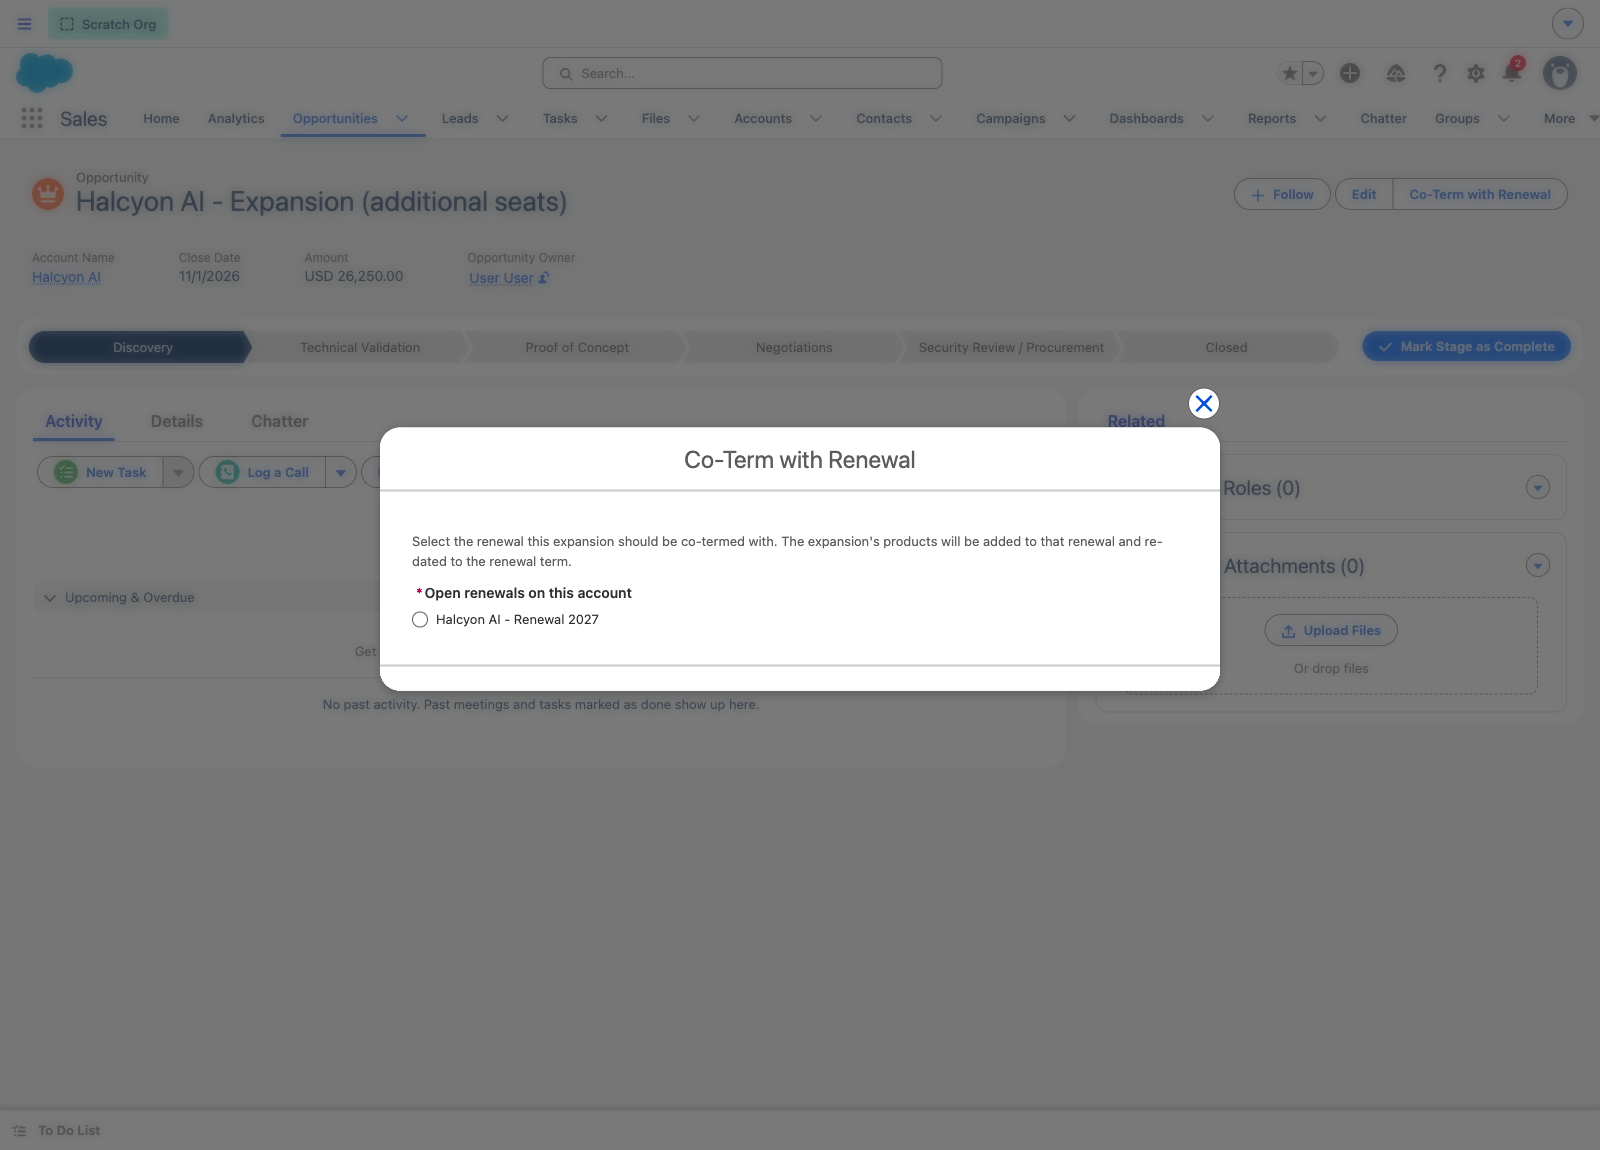
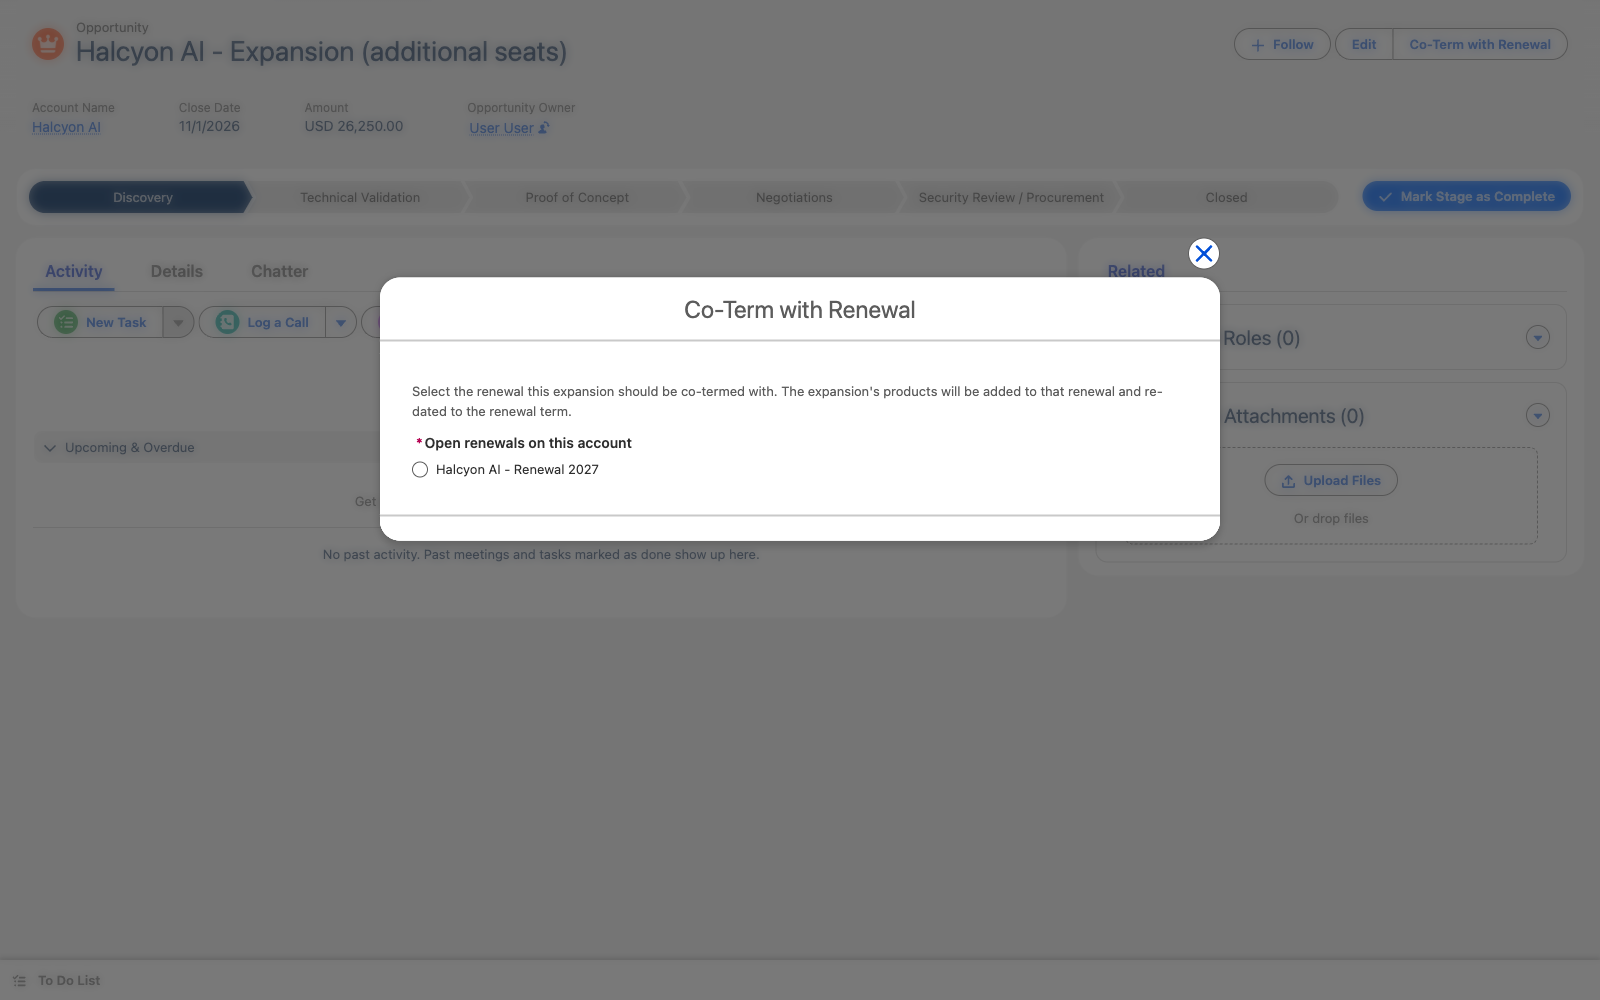
More screenshots per section, with an explicit click path on each task
17 screenshots, scoped to the component rather than the whole page and trimmed
of Salesforce chrome. Adds the expanded Sales Path showing key fields and
guidance, the POC, approval, contract, outcome and disqualification sections,
the lead record, and the cold accounts list.

Every task now opens with a click-path breadcrumb so it can be followed along.

diff --git a/index.html b/index.html
@@ -102,6 +102,11 @@ a.btn:hover,a.btn:focus-visible{background:var(--ink2);outline:none}
 a.btn.ghost{background:transparent;color:var(--accd);border:1px solid var(--line2)}
 a.btn.ghost:hover{background:var(--paper2)}
 
+.nav{display:flex;flex-wrap:wrap;gap:7px;align-items:center;margin:0 0 18px;padding:11px 14px;
+  background:var(--paper2);border-radius:6px;font-size:14px;font-family:var(--mono)}
+.nav .c{color:var(--faint)}
+.nav b{font-weight:500;color:var(--tx);font-family:var(--body)}
+.nav .lbl{font-family:var(--body);font-size:11.5px;letter-spacing:.09em;text-transform:uppercase;color:var(--faint);font-weight:600;margin-right:3px}
 .tw{overflow-x:auto;margin:18px 0}
 table{width:100%;border-collapse:collapse;font-size:14.5px;min-width:520px}
 th{text-align:left;font-size:12px;letter-spacing:.08em;text-transform:uppercase;color:var(--faint);font-weight:600;padding:0 12px 9px 0;border-bottom:1px solid var(--line2)}
@@ -159,13 +164,13 @@ code{font-family:var(--mono);font-size:.87em;background:var(--paper2);border-rad
 <section class="task" id="new">
   <h2>I've got a new lead</h2>
   <p class="who">Account Executive</p>
-  <p>Leads are where everything starts. A lead is someone you think might be worth a conversation &mdash; it is not pipeline yet, and it should not be.</p>
+  <p>Leads are where everything starts. A lead is someone you think might be worth a conversation &mdash; it is not pipeline yet, and it should not be.</p><div class="nav"><span class="lbl">Click path</span><b>App Launcher</b><span class="c">&rsaquo;</span><b>Leads</b><span class="c">&rsaquo;</span><b>Working Leads</b><span class="c">&rsaquo;</span><b>open a lead</b></div>
   <ol class="steps">
     <li>Open <b>Leads</b> and pick the <b>Working Leads</b> list, or create a new one.</li>
     <li>Fill in <b>How Did You Hear About Us</b>. It is one click and it follows the deal all the way to close.</li>
     <li>Move the status to <b>Warming</b> when you start working it, then <b>Connected</b> once they reply.</li>
     <li>When a meeting goes in the diary, set the status to <b>Meeting Set</b>.</li>
-  </ol>
+  </ol><figure><img src="shots/lead_record.png" alt="A lead at Meeting Held. Status runs along the top; the meeting dates underneath were stamped for you." loading="lazy"><figcaption>A lead at <b>Meeting Held</b>. Status runs along the top; the meeting dates underneath were stamped for you.</figcaption></figure>
   <div class="auto">
     <h3>Salesforce does this for you</h3>
     <ul>
@@ -185,12 +190,12 @@ code{font-family:var(--mono);font-size:.87em;background:var(--paper2);border-rad
 <section class="task" id="met">
   <h2>I've had the meeting</h2>
   <p class="who">Account Executive</p>
-  <p>This is the decision point. Either it is worth pursuing, or it is not &mdash; and both answers are useful.</p>
+  <p>This is the decision point. Either it is worth pursuing, or it is not &mdash; and both answers are useful.</p><div class="nav"><span class="lbl">Click path</span><b>open the lead</b><span class="c">&rsaquo;</span><b>Convert &mdash; or set status to Disqualified</b></div>
   <ol class="steps">
     <li>Set the lead status to <b>Meeting Held</b>.</li>
     <li>If it is worth pursuing, click <b>Convert</b>. That creates the account, the contact and the opportunity in one go.</li>
     <li>If it is not, set the status to <b>Disqualified</b> and pick a <b>Disqualification Reason</b>.</li>
-  </ol>
+  </ol><figure><img src="shots/disqual_section.png" alt="The Disqualification section. Reason plus a note &mdash; that is the whole job, and it stays on the lead forever." loading="lazy"><figcaption>The Disqualification section. Reason plus a note &mdash; that is the whole job, and it stays on the lead forever.</figcaption></figure>
   <div class="heads">
     <h3>Don't skip the reason</h3>
     <p>The lead is never deleted. Next time that company comes round &mdash; and they will &mdash; whoever picks it up can see you already spoke to them and why it didn't go anywhere. That is worth ten seconds now.</p>
@@ -207,11 +212,11 @@ code{font-family:var(--mono);font-size:.87em;background:var(--paper2);border-rad
 <section class="task" id="move">
   <h2>I'm moving a deal forward</h2>
   <p class="who">Account Executive &amp; Sales Engineer</p>
-  <p>The bar across the top of every opportunity is your map. Click a stage and it tells you what that stage needs.</p>
+  <p>The bar across the top of every opportunity is your map. Click a stage and it tells you what that stage needs.</p><div class="nav"><span class="lbl">Click path</span><b>Opportunities</b><span class="c">&rsaquo;</span><b>open the deal</b><span class="c">&rsaquo;</span><b>click a stage on the path</b><span class="c">&rsaquo;</span><b>expand the chevron</b></div>
   <figure>
     <img src="shots/path.png" alt="The sales path across the top of an opportunity, showing all seven stages" loading="lazy">
     <figcaption>Click any stage to see its key fields and what's required to leave it. <b>Mark Stage as Complete</b> moves the deal on.</figcaption>
-  </figure>
+  </figure><figure><img src="shots/path_guidance.png" alt="Hit the chevron on the left and the path opens up: the key fields for that stage on the left, editable in place, and what you need to move on on the right. You rarely need to scroll further than this." loading="lazy"><figcaption>Hit the chevron on the left and the path opens up: the <b>key fields</b> for that stage on the left, editable in place, and <b>what you need to move on</b> on the right. You rarely need to scroll further than this.</figcaption></figure>
   <p>Here is what each stage needs before you can leave it. Nothing else is enforced &mdash; fill in the rest as you learn it.</p>
   <div class="tw"><table>
     <tr><th>Stage</th><th>Before you can move on</th></tr>
@@ -225,7 +230,7 @@ code{font-family:var(--mono);font-size:.87em;background:var(--paper2);border-rad
   <figure>
     <img src="shots/bant.png" alt="The BANT section showing budget, authority, need and timeline with a 75 percent score" loading="lazy">
     <figcaption>BANT only counts answers marked <b>Confirmed</b>. <code>Estimated</code> and <code>Partial</code> score zero &mdash; three out of four gets you to 75%.</figcaption>
-  </figure>
+  </figure><figure><img src="shots/techqual.png" alt="The Technical Qualification section, filled in by your SE. You do not need to complete this yourself &mdash; but the deal cannot reach POC until they have." loading="lazy"><figcaption>The Technical Qualification section, filled in by your SE. You do not need to complete this yourself &mdash; but the deal cannot reach POC until they have.</figcaption></figure>
   <div class="auto">
     <h3>Salesforce does this for you</h3>
     <ul>
@@ -245,7 +250,7 @@ code{font-family:var(--mono);font-size:.87em;background:var(--paper2);border-rad
 <section class="task" id="blocked">
   <h2>Salesforce won't let me move my deal</h2>
   <p class="who">Everyone &mdash; read this one</p>
-  <p>This is deliberate, and the message always tells you exactly what is missing. Here is what it looks like:</p>
+  <p>This is deliberate, and the message always tells you exactly what is missing. Here is what it looks like:</p><div class="nav"><span class="lbl">Click path</span><b>change the Stage</b><span class="c">&rsaquo;</span><b>Save</b><span class="c">&rsaquo;</span><b>read the message</b></div>
   <figure>
     <img src="shots/gate_error.png" alt="Salesforce showing an error when a deal is moved to Proof of Concept without meeting the requirements" loading="lazy">
     <figcaption>The error names every missing item at once, so you can fix them in one pass rather than one at a time.</figcaption>
@@ -272,14 +277,14 @@ code{font-family:var(--mono);font-size:.87em;background:var(--paper2);border-rad
 <section class="task" id="poc">
   <h2>I'm running a POC</h2>
   <p class="who">Account Executive &amp; Sales Engineer</p>
-  <p>Move the deal to <b>Proof of Concept</b> on the day the customer actually gets access &mdash; that starts the clock.</p>
+  <p>Move the deal to <b>Proof of Concept</b> on the day the customer actually gets access &mdash; that starts the clock.</p><div class="nav"><span class="lbl">Click path</span><b>open the deal</b><span class="c">&rsaquo;</span><b>Details</b><span class="c">&rsaquo;</span><b>Proof of Concept section</b></div>
   <ol class="steps">
     <li>Paste the link to your <b>scoping doc</b>. The full checklist stays in the doc, not in Salesforce.</li>
     <li>Write a short <b>summary</b> so nobody has to open the doc to understand the deal.</li>
     <li>Write the <b>success criteria</b> explicitly &mdash; what has to be true for this to count as a win.</li>
     <li>Set a <b>target end date</b>.</li>
     <li>When it finishes, set <b>Tech Win</b> to Yes or No, pick a reason, and add a note.</li>
-  </ol>
+  </ol><figure><img src="shots/poc_section.png" alt="The POC section on a live deal. POC Days Elapsed counts itself from the day you moved the stage &mdash; there is no start date to remember." loading="lazy"><figcaption>The POC section on a live deal. <b>POC Days Elapsed</b> counts itself from the day you moved the stage &mdash; there is no start date to remember.</figcaption></figure>
   <figure>
     <img src="shots/techqual.png" alt="The technical qualification section showing autonomy level, coding agents, IDEs and current tooling" loading="lazy">
     <figcaption>The technical picture your SE builds &mdash; what they run today, and how autonomous their development is.</figcaption>
@@ -300,13 +305,13 @@ code{font-family:var(--mono);font-size:.87em;background:var(--paper2);border-rad
 <section class="task" id="approval">
   <h2>I need pricing approved</h2>
   <p class="who">Account Executive</p>
-  <p>Once you've agreed a number, it goes to the CEO before the deal can move into Security Review.</p>
+  <p>Once you've agreed a number, it goes to the CEO before the deal can move into Security Review.</p><div class="nav"><span class="lbl">Click path</span><b>open the deal</b><span class="c">&rsaquo;</span><b>Submit for Approval</b><span class="c">&rsaquo;</span><b>wait for the decision</b><span class="c">&rsaquo;</span><b>move the stage yourself</b></div>
   <ol class="steps">
     <li>Make sure the <b>Amount</b> on the opportunity is the number you actually agreed.</li>
     <li>Click <b>Submit for Approval</b>.</li>
     <li>You'll see the status change to <b>Pending Approval</b>, and the approver gets notified.</li>
     <li>Once approved, <b>you</b> move the deal to Security Review. Approval unlocks the move; it doesn't make it.</li>
-  </ol>
+  </ol><figure><img src="shots/approval_section.png" alt="After approval: the status, the number approved, who approved it and when &mdash; all on the record, nothing to go looking for." loading="lazy"><figcaption>After approval: the status, the number approved, who approved it and when &mdash; all on the record, nothing to go looking for.</figcaption></figure>
   <div class="auto">
     <h3>Salesforce does this for you</h3>
     <ul>
@@ -326,11 +331,11 @@ code{font-family:var(--mono);font-size:.87em;background:var(--paper2);border-rad
 <section class="task" id="won">
   <h2>I've won the deal</h2>
   <p class="who">Account Executive</p>
-  <ol class="steps">
+  <div class="nav"><span class="lbl">Click path</span><b>open the deal</b><span class="c">&rsaquo;</span><b>Details</b><span class="c">&rsaquo;</span><b>Contract Details</b><span class="c">&rsaquo;</span><b>set Stage to Closed Won</b></div><ol class="steps">
     <li>Fill in the <b>Contract Details</b> &mdash; start date, end date, term, payment terms, billing frequency.</li>
     <li>Set the stage to <b>Closed Won</b>.</li>
     <li>Add a <b>Win Reason</b> and a note on why you won, while it's fresh.</li>
-  </ol>
+  </ol><figure><img src="shots/contract_section.png" alt="Fill this in before you close the deal &mdash; these five fields are what next year's renewal gets built from." loading="lazy"><figcaption>Fill this in <b>before</b> you close the deal &mdash; these five fields are what next year's renewal gets built from.</figcaption></figure><figure><img src="shots/renewal_created.png" alt="And this is the renewal, created on its own the moment the deal closed, with the products already on it." loading="lazy"><figcaption>And this is the renewal, created on its own the moment the deal closed, with the products already on it.</figcaption></figure>
   <div class="auto">
     <h3>Then Salesforce does the rest</h3>
     <ul>
@@ -359,7 +364,7 @@ code{font-family:var(--mono);font-size:.87em;background:var(--paper2);border-rad
     <li>Set the stage to <b>Closed Lost</b>.</li>
     <li>Pick a <b>Win / Loss Reason</b> &mdash; this one is required.</li>
     <li>Add a note with anything worth knowing if we go back in.</li>
-  </ol>
+  </ol><figure><img src="shots/outcome_section.png" alt="The Outcome section. Reason and notes &mdash; thirty seconds now, and the win/loss review actually has something to work with." loading="lazy"><figcaption>The Outcome section. Reason and notes &mdash; thirty seconds now, and the win/loss review actually has something to work with.</figcaption></figure>
   <div class="heads">
     <h3>Why the reason is compulsory</h3>
     <p>It is the only thing a win/loss review has to work with. "Competitor Won" with a note saying who and why is worth more than a tidy pipeline.</p>
@@ -371,7 +376,7 @@ code{font-family:var(--mono);font-size:.87em;background:var(--paper2);border-rad
 <section class="task" id="expand">
   <h2>I want to sell more to a customer</h2>
   <p class="who">Account Executive</p>
-  <ol class="steps">
+  <div class="nav"><span class="lbl">Click path</span><b>the account</b><span class="c">&rsaquo;</span><b>New Opportunity</b><span class="c">&rsaquo;</span><b>record type Expansion</b><span class="c">&rsaquo;</span><b>Co-Term with Renewal</b></div><ol class="steps">
     <li>Create an opportunity on the account and set the record type to <b>Expansion</b>.</li>
     <li>Add the products they're buying.</li>
     <li>If they already have a renewal coming up, click <b>Co-Term with Renewal</b>.</li>
@@ -396,7 +401,7 @@ code{font-family:var(--mono);font-size:.87em;background:var(--paper2);border-rad
 <section class="task" id="morning">
   <h2>What should I check each morning?</h2>
   <p class="who">Everyone</p>
-  <p>Four lists. None of them take longer than a minute.</p>
+  <p>Four lists. None of them take longer than a minute.</p><div class="nav"><span class="lbl">Click path</span><b>Opportunities</b><span class="c">&rsaquo;</span><b>the list-view dropdown</b><span class="c">&rsaquo;</span><b>pick a list</b></div>
   <figure>
     <img src="shots/listview.png" alt="The Deals Needing Attention list view" loading="lazy">
     <figcaption><b>Deals Needing Attention</b> &mdash; anything you haven't updated the next step on in over a week appears here by itself.</figcaption>
@@ -412,7 +417,7 @@ code{font-family:var(--mono);font-size:.87em;background:var(--paper2);border-rad
   <figure>
     <img src="shots/engagement.png" alt="The engagement section on an account showing 95 days since sales activity and 5 days since marketing activity" loading="lazy">
     <figcaption>Sales and marketing activity are tracked separately on purpose. This account looks active &mdash; but nobody in sales has spoken to them for 95 days.</figcaption>
-  </figure>
+  </figure><figure><img src="shots/cold_accounts.png" alt="The Cold Accounts list does the same job across your whole book, sorted worst-first." loading="lazy"><figcaption>The <b>Cold Accounts</b> list does the same job across your whole book, sorted worst-first.</figcaption></figure><figure><img src="shots/dashboard.png" alt="And the leadership dashboard, if you want the whole picture in one screen." loading="lazy"><figcaption>And the leadership dashboard, if you want the whole picture in one screen.</figcaption></figure>
   <div class="try">
     <span class="lbl">Leadership</span>
     <a class="btn" href="https://ruby-innovation-7035.scratch.lightning.force.com/lightning/r/Dashboard/01ZQL00000ALBNi2AP/view" target="_blank" rel="noopener">Sales Leadership dashboard</a>
